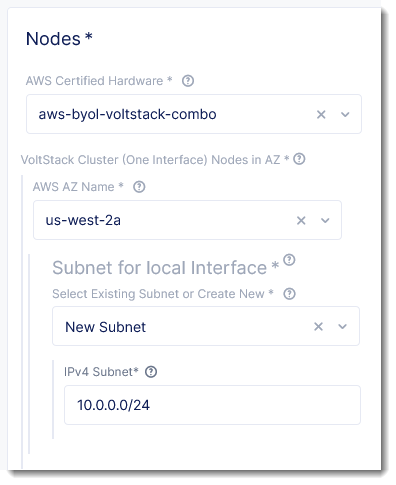
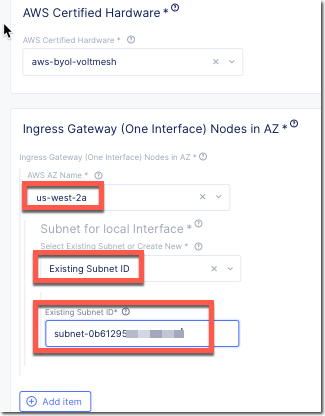
update images

diff --git a/application/docs/pre-work/voltAwsSite.rst b/application/docs/pre-work/voltAwsSite.rst
@@ -168,6 +168,8 @@ Exercise 4: Create AWS VPC Site
   
         The maximum site name length is 16 characters. If your namespace is long adjust your site name accordingly.
 
+    |aws_vpc_site|
+
 #. Under the *Voltstack Cluster (One Interface)* section, click the *Configure* link.
 
 #. Enter the following variables:
@@ -178,9 +180,9 @@ Exercise 4: Create AWS VPC Site
     AWS AZ Name             |aws_zone|
     Select Existing or ..   Select Existing Subnet
     Existing Subnet ID      [output from terraform]
-    Manage Network Policy   Active Network Policies
-    Network Policy          your_namespace-aws
     ======================= =====
+
+    |aws_vpc_site_interface|
 
 #. Click *Apply*.
 
